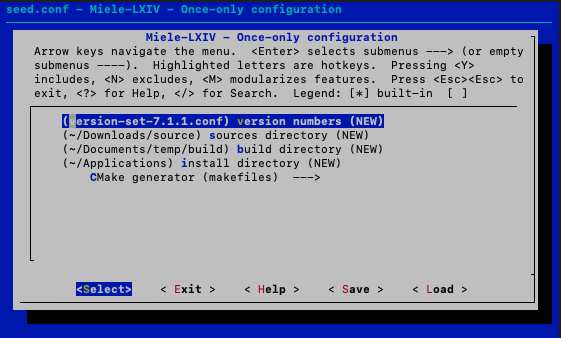
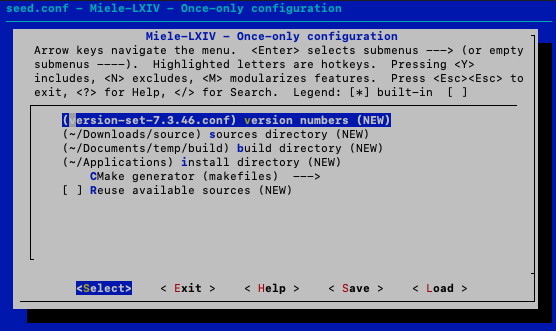
Tidy up

Changed region(s): [[0.0, 0.0, 1.0, 1.0]]

diff --git a/README.md b/README.md
@@ -1,12 +1,12 @@
 # Miele-LXIV Build System
 
-Copyright &copy; Alex Bettarini, 2019
+Copyright &copy; Alex Bettarini, 2019-2024
 
 ---
 
 The purpose of this project is to assist in setting up and configuring all dependencies for the project [Miele-LXIV](https://github.com/bettar/miele-lxiv).
 
-In other words, <b>the goal of this project is NOT  to build Miele-LXIV, but to configure the Xcode project that builds Miele-LXIV</b>.
+In other words, <b>the goal of this project is NOT to build Miele-LXIV, but to configure the Xcode project that builds Miele-LXIV</b>.
 
 The directory where this README.md file has been downloaded shall be referred to as `EASY_HOME`
 
@@ -26,13 +26,13 @@ Additionally, you must define the three top-level directories involved in the pr
 	 Instead, I found it very convenient to install it like in the [NuttX](https://bitbucket.org/nuttx/) project:
 	
 		$ mkdir -p $SRC/nuttx
-		$ cd $SRC/nuttx
-		$ git clone https://bitbucket.org/nuttx/tools.git
+		$ cd $SRC/nuttx		
 		
 		$ cd $SRC/nuttx/tools/kconfig-frontends
 		$ ./configure --disable-shared --enable-static --disable-gconf --disable-qconf --disable-nconf --disable-utils
 		$ make
 		$ sudo make install
+		$ which kconfig-mcon
 
 - wget
 - cmake
@@ -121,8 +121,9 @@ While STEPS 1..4 are nicely engineered to configure the project, there still rem
 
 Select the link matching your selection on STEP 1
 
+- [version-set-latest](version-set-latest.step5.md) (unstable)
+- [version-set-7.3.46](version-set-7.3.46.step5.md) (stable, default)
 - [version-set-7.1.38](version-set-7.1.38.step5.md)
-- [version-set-7.3.46](version-set-7.3.46.step5.md) (default)
 
 ---
 
